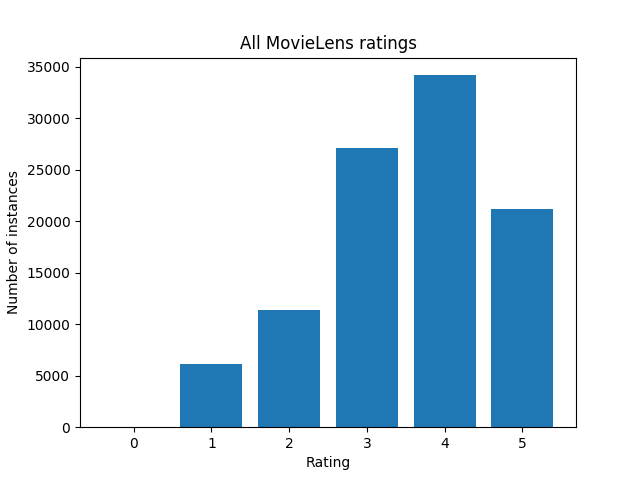
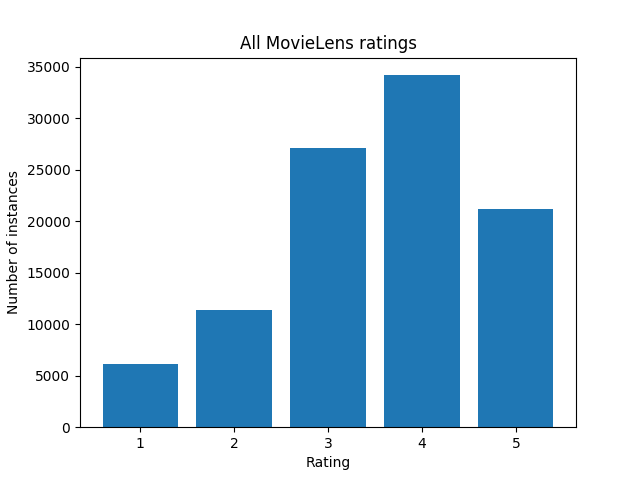
added basic visualization 2

diff --git a/data_handler.py b/data_handler.py
@@ -5,6 +5,7 @@
 
 import numpy as np
 import matplotlib.pyplot as plt
+import heapq
 
 class DataHandler(object):
 
@@ -14,8 +15,17 @@ class DataHandler(object):
         self.rating_data = []
         self.movie_data = {}
         self.num_users = 943
+        self.movie_names = {}
+        self.movie_ratings = {}
         self.num_movies = 1682
         self.num_ratings = 100000
+
+        for i in range(self.num_movies):
+            self.movie_ratings[i+1] = {}
+            self.movie_ratings[i + 1]['total'] = 0
+            for rating in range(1,6):
+                self.movie_ratings[i+1][rating] = 0
+
 
         self.read_data()
 
@@ -24,7 +34,12 @@ class DataHandler(object):
         for line in file:
             line = line.strip().split()
             for i in range(self.num_ratings):
-                self.rating_data.append([int(line[3 * i]),int(line[3 * i + 1]),int(line[3 * i + 2])])
+                user = int(line[3 * i ])
+                movie = int(line[3 * i + 1])
+                rating = int(line[3 * i + 2])
+                self.rating_data.append([user,movie,rating])
+                self.movie_ratings[movie][rating] += 1
+                self.movie_ratings[movie]['total'] += 1
 
         file = open(self.movie_file, 'r')
         for line in file:
@@ -32,17 +47,48 @@ class DataHandler(object):
             line = line.strip().split('\t')
             #print(line)
             for i in range(self.num_movies):
-                self.movie_data[i+1] = line[21 * i+1:21 * i + 21]
+                self.movie_names[i+1] = line[21 * i+1]
+                self.movie_data[i+1] = line[21 * i+2:21 * i + 21]
+
 
     def ratings_hist(self):
         ratings = {}
-        for i in range(6):
+        for i in range(1,6):
             ratings[i] = 0
         for elem in self.rating_data:
-            ratings[elem[2]] +=1
+            ratings[elem[2]] += 1
 
         plt.bar(ratings.keys(),ratings.values())
         plt.title('All MovieLens ratings')
         plt.xlabel('Rating')
         plt.ylabel('Number of instances')
         plt.savefig('Plots/Basic_Visualization_1')
+        plt.clf()
+
+    def most_popular_hist(self):
+        top10 = []
+        for i in range(self.num_movies):
+            if len(top10) <= 10:
+                heapq.heappush(top10,(self.movie_ratings[i+1]['total'],i+1))
+            else:
+                heapq.heappushpop(top10,(self.movie_ratings[i+1]['total'],i+1))
+        # ratings = {}
+        # for i in range(1,6):
+        #     ratings[i] = 0
+        # for elem in top10:
+        #     for i in range(1,6):
+        #         ratings[i] += self.movie_ratings[elem[1]][i]
+        plt.title('Ratings of most popular movies')
+
+        fig, axes = plt.subplots(nrows=2, ncols=5)
+        fig.tight_layout()
+        for i in range(1,11):
+            plt.subplot(2,5,i)
+            ratings = self.movie_ratings[top10[i][1]]
+            del ratings['total']
+            plt.bar(ratings.keys(),ratings.values())
+            # plt.xlabel('Rating')
+            # plt.ylabel('Number of instances')
+            plt.title(self.movie_names[top10[i][1]])
+        #plt.savefig('Plots/Basic_Visualization_2_type2')
+        plt.clf()

diff --git a/visualize_data.py b/visualize_data.py
@@ -7,6 +7,5 @@ from data_handler import DataHandler
 
 dh = DataHandler()
 
-print(dh.rating_data[1])
-
 dh.ratings_hist()
+dh.most_popular_hist()
